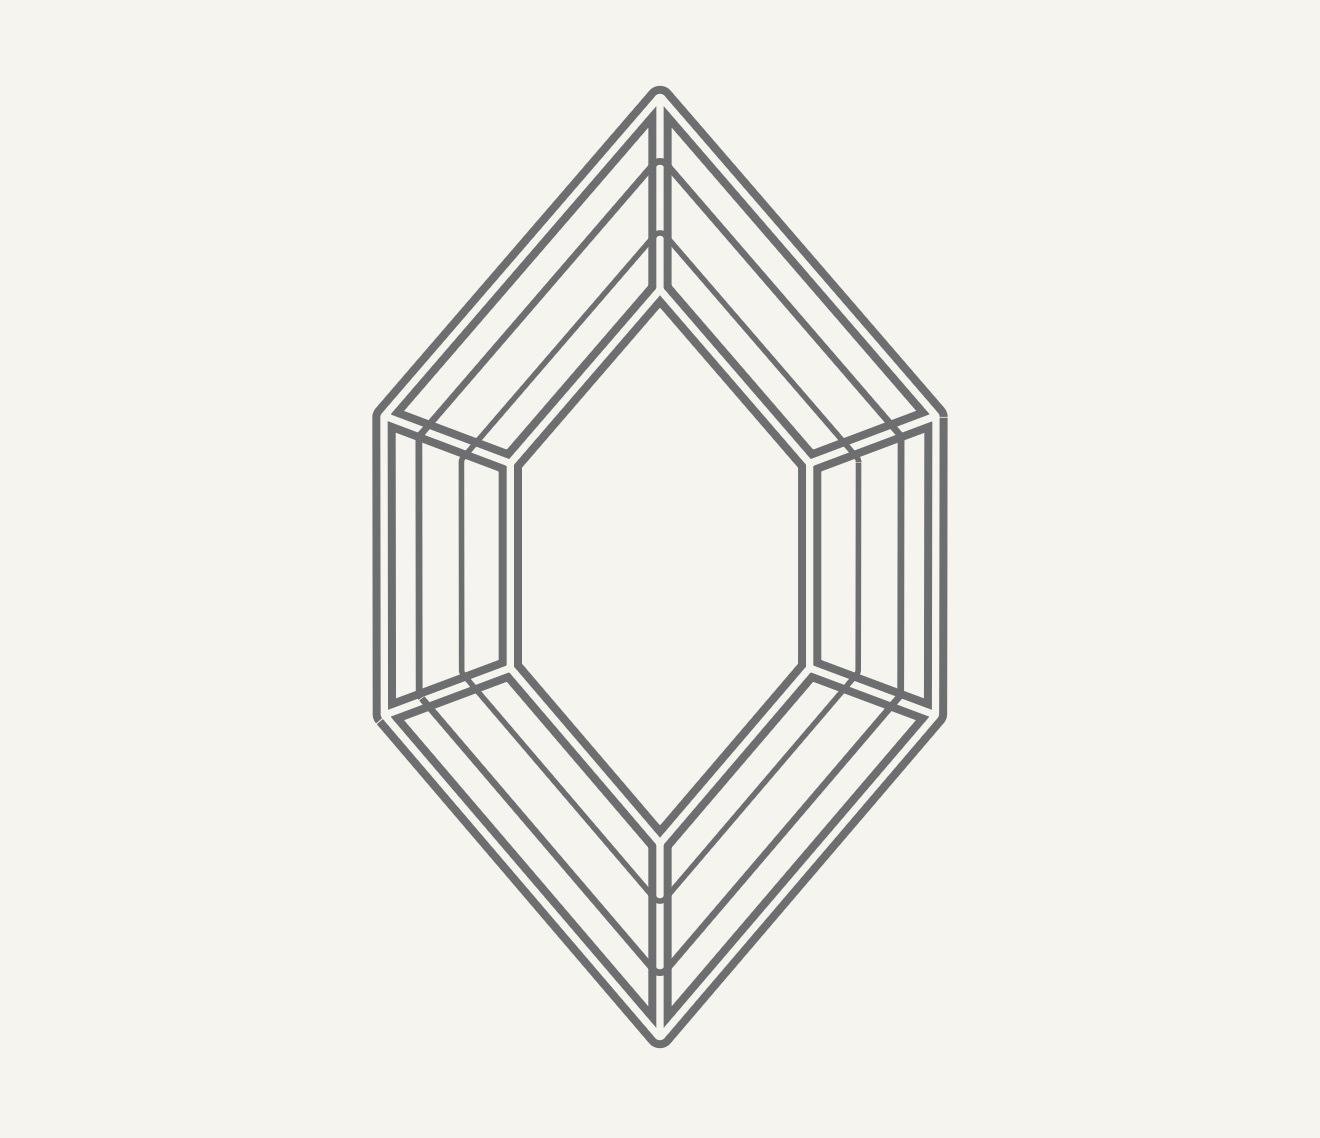
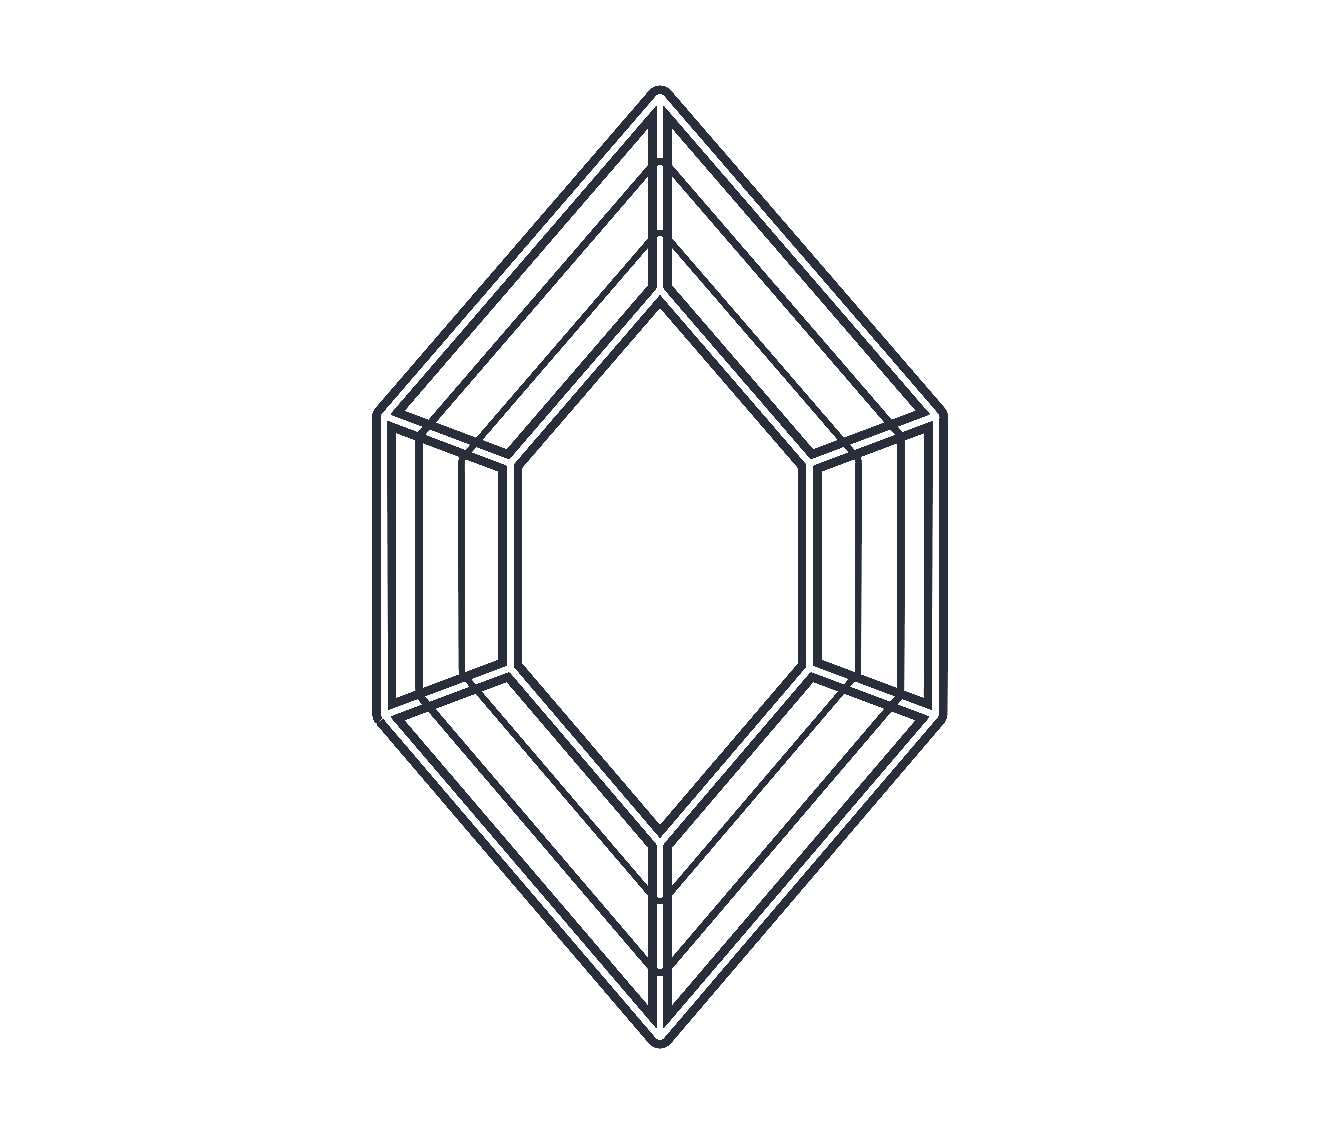
Convert 12 diamond shape images to clean transparent PNGs and remove square borders

Changed region(s): [[0.2795, 0.0615, 0.7455, 0.9227]]

diff --git a/src/components/Header.jsx b/src/components/Header.jsx
@@ -616,7 +616,7 @@ export default function Header({
                             <img 
                               src={shape.image} 
                               alt={shape.name} 
-                              style={{ width: '32px', height: '32px', objectFit: 'contain', padding: '2px', border: '1px solid var(--border-soft)', borderRadius: '4px', backgroundColor: '#FFFFFF', mixBlendMode: 'multiply' }} 
+                              style={{ width: '32px', height: '32px', objectFit: 'contain', padding: '2px', border: '1px solid var(--border-soft)', borderRadius: '4px', backgroundColor: '#FFFFFF' }} 
                             />
                             <span style={{ fontWeight: 500 }}>{shape.name}</span>
                           </button>

diff --git a/src/components/CustomDesignPage.jsx b/src/components/CustomDesignPage.jsx
@@ -455,7 +455,7 @@ export default function CustomDesignPage({ onBackToHome, prefilledData = null })
                           <img 
                             src={shape.image} 
                             alt={shape.name} 
-                            style={{ width: '40px', height: '40px', objectFit: 'contain', padding: '2px', marginBottom: '0.4rem', mixBlendMode: 'multiply' }} 
+                            style={{ width: '40px', height: '40px', objectFit: 'contain', padding: '2px', marginBottom: '0.4rem' }} 
                           />
                           <span style={{ fontSize: '0.8rem', fontWeight: isSelected ? 600 : 450, color: 'var(--text-charcoal)' }}>
                             {shape.name}

diff --git a/src/components/ShopByShape.jsx b/src/components/ShopByShape.jsx
@@ -171,8 +171,7 @@ export default function ShopByShape({ onSelectShape }) {
                     width: '100%',
                     height: '100%',
                     objectFit: 'contain',
-                    padding: '12px',
-                    mixBlendMode: 'multiply'
+                    padding: '10px'
                   }}
                   loading="lazy"
                 />
